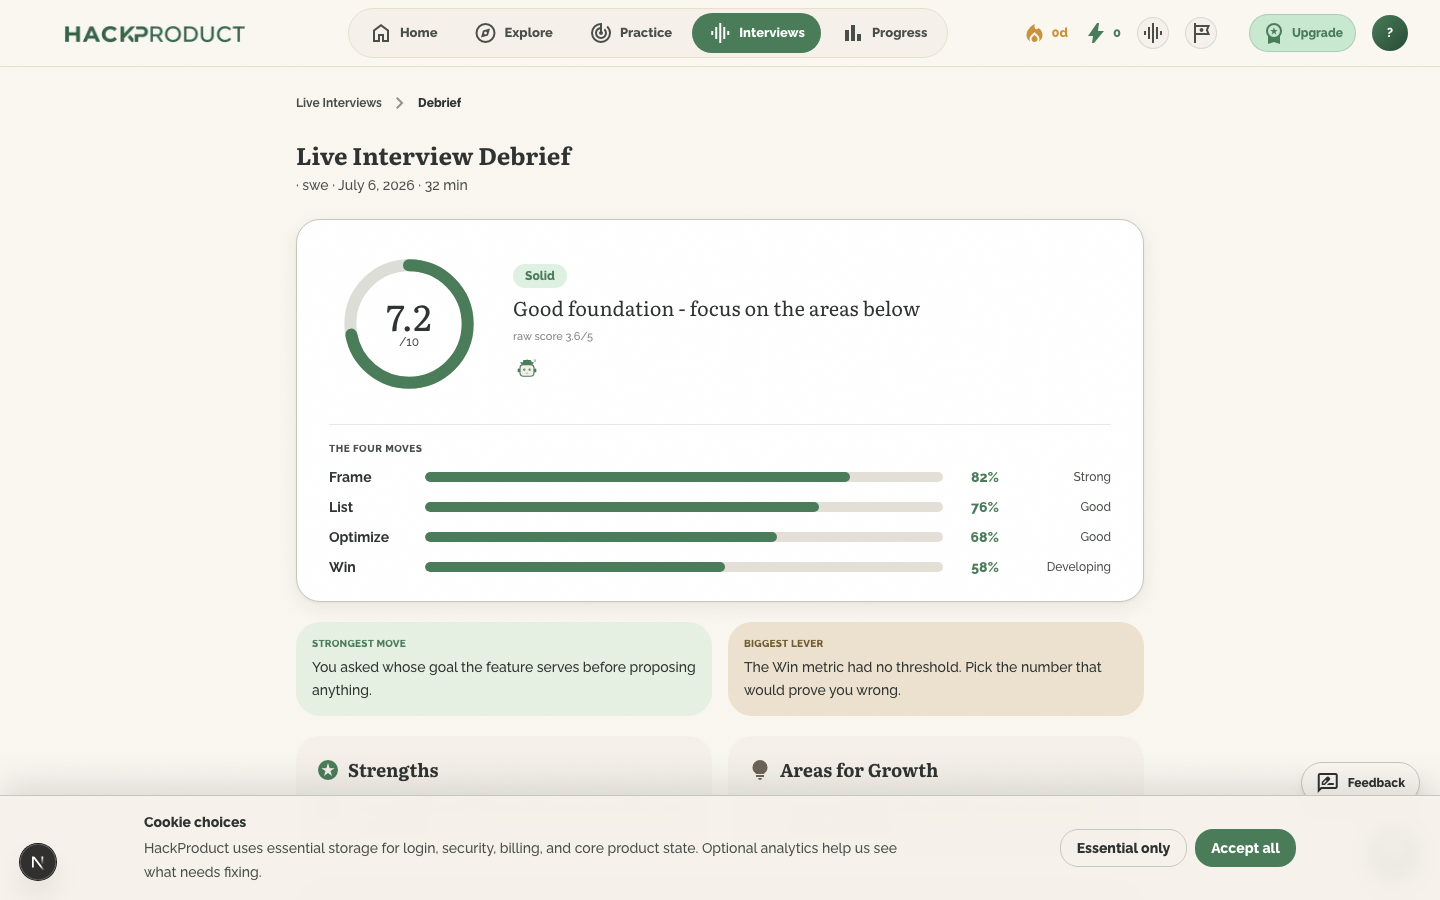
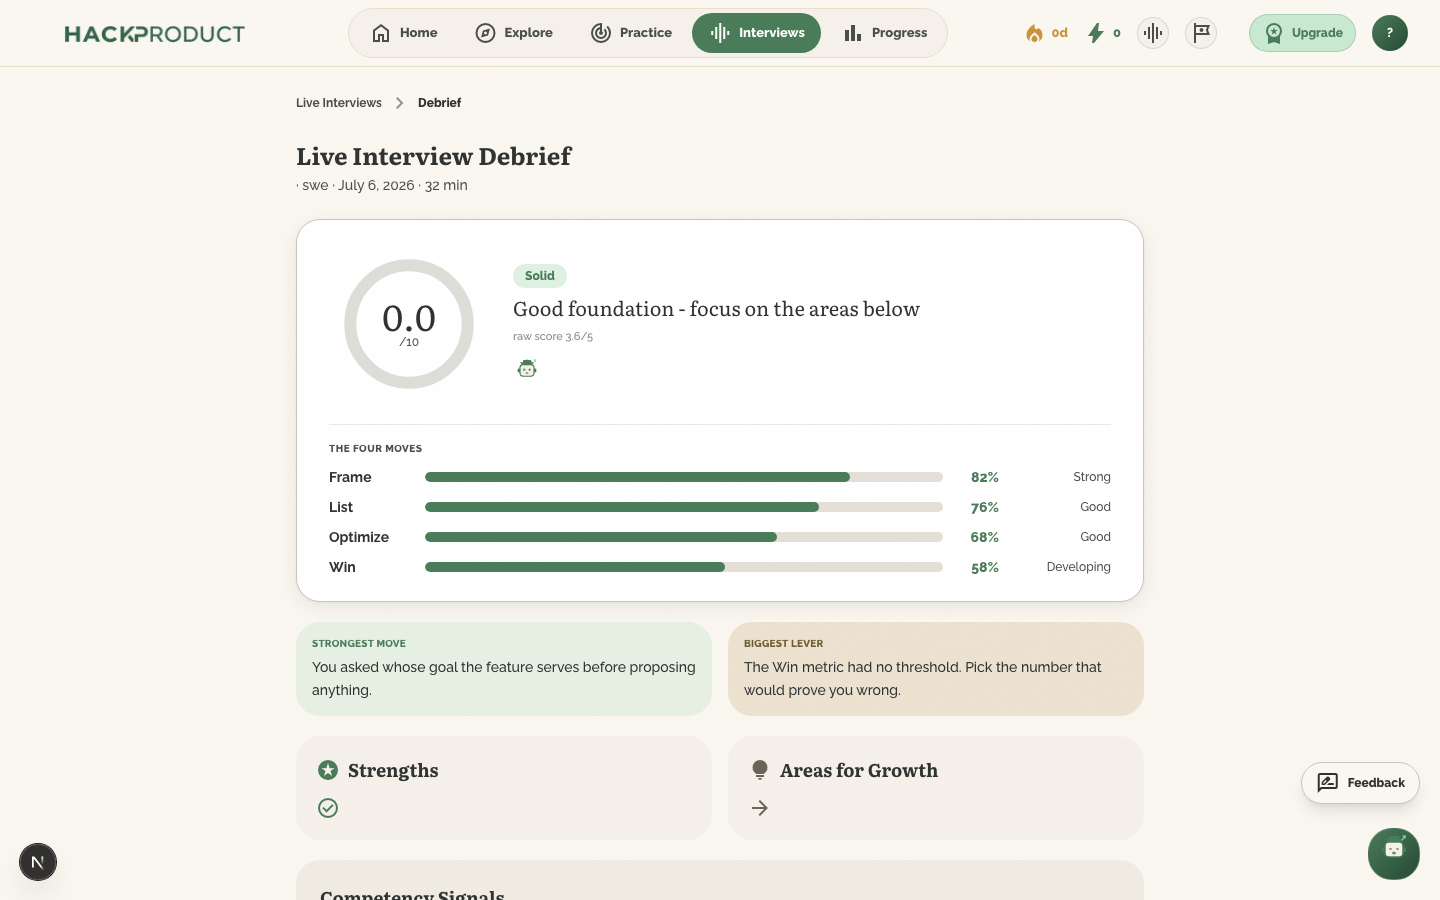
docs: feedback overhaul checkpoint — phases A-E complete

diff --git a/docs/notes/overnight-adaptive-2026-07-04.md b/docs/notes/overnight-adaptive-2026-07-04.md
@@ -105,3 +105,11 @@ Phases 0-4 of the lab-platform plan complete on feat/adaptive-workspaces:
 
 Launch runbook when ready: merge → flip app_flags.lab_debugging=true → UPDATE challenges SET is_published=true WHERE id='ccd-001-cart-pricing'.
 Known polish: Hatch dock initial message still says analytics copy in the debugging lab (CanvasChatPanel per-lab copy).
+
+## Checkpoint — 2026-07-06 (evening): Feedback overhaul COMPLETE (phases A-E)
+
+- A: feedback design system (src/components/feedback/): ScoreHero (/10 canonical + grade lexicon + burst), DimensionCard (one accordion, replaced 3), FeedbackShell tiers + gsap entrance, CompetencyViz (radar+bars), XpCoin, MissionBookend; src/lib/feedback/score.ts
+- B1-B6: FLOW feedback page, live debrief (FLOW-as-spine hero, merged competency viz), CodingFeedback, InterviewFeedback (canvas, +Hatch), quick-take card (structured fields), share page tokens, mirror consumes extracted parts
+- C1-C5: Mental Models framework layer reaches the user (rollup-built breakdown + page precedence), coding evidence carries run facts, quick-take structure stored, debrief FP-ids enumerated + voice rules, FLOW rubric derived from JSON (flowRubricPromptBlock)
+- D: skills = runtime truth via src/lib/ai/skill-loader.ts; wired grader/coaching/nudger(3 routes)/canvas-coach/canvas-grader; created interviewer/interview-grader/quicktake-grader; interpret loaders unified; CLAUDE.md skills table truthful; v2 bundle archived to docs/archive/v2-planning-skills
+- E: feedback-ui-shots (FLOW page + debrief, seeded fixtures) green, canvas-coach 11/11, flow-adaptive green, cc-analytics-adaptive 3/3 real sandboxes, 421 unit tests, tsc clean. Shots in docs/notes/feedback-ui/.
